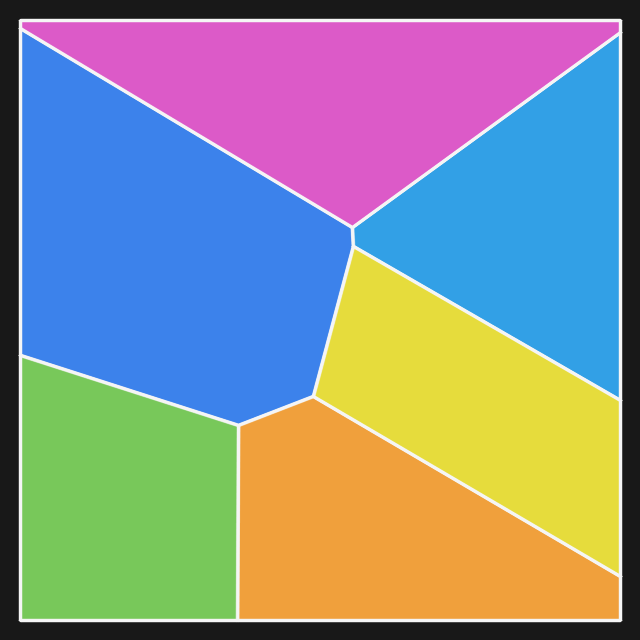
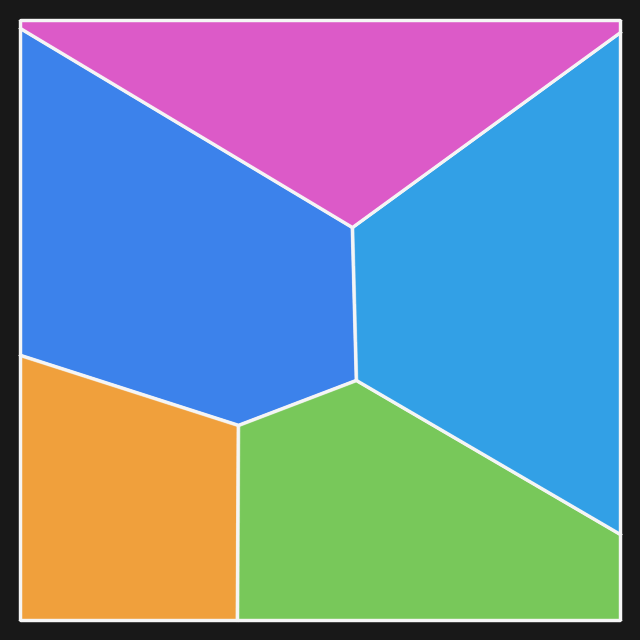
refactor(纹理拼合): 删掉未使用的 load_square，补上 --use-beam 对照开关
- load_square 定义了但从未调用（不规则拼装完全不读像素），删掉；\n- one() 早就有 use_beam 参数但 CLI 没有对应开关，补 --use-beam，\n  这样 README 里『直接用 beam_search 会拼错』的对照可以自己复跑。\n\n自检：py_compile 通过；--n 5 跑 002.jpg 仍是质心误差 0.0 / 空隙 0.0%。

diff --git a/纹理拼合/tools/irregular_cut.py b/纹理拼合/tools/irregular_cut.py
@@ -288,15 +288,6 @@ def draw_assembled(polys: list[np.ndarray], path: Path) -> None:
 # --------------------------------------------------------------------------
 # 5) 单张 / 批量
 # --------------------------------------------------------------------------
-def load_square(path: Path | None, size: int) -> np.ndarray:
-    if path is None:
-        return np.full((size, size, 3), 128, np.uint8)
-    im = cv2.imdecode(np.fromfile(str(path), dtype=np.uint8), cv2.IMREAD_COLOR)
-    if im is None:
-        return np.full((size, size, 3), 128, np.uint8)
-    return cv2.resize(im, (size, size), interpolation=cv2.INTER_AREA)
-
-
 def one(path: Path | None, n: int, size: int, time_budget: float, outdir: Path,
         seed: int, use_beam: bool = False) -> dict:
     rng = np.random.default_rng(seed)
@@ -350,6 +341,8 @@ def main() -> int:
     ap.add_argument("--seed", type=int, default=1)
     ap.add_argument("--bench", action="store_true", help="跑 照片/ 目录的批量基准")
     ap.add_argument("--limit", type=int, default=10)
+    ap.add_argument("--use-beam", action="store_true",
+                    help="对照组：改用项目原来的 beam_search.py（按凸包空隙排序，预期会拼错）")
     args = ap.parse_args()
 
     if args.bench:
@@ -359,7 +352,8 @@ def main() -> int:
         print("-" * 56)
         for i, f in enumerate(photos):
             out = Path(tempfile.gettempdir()) / f"irr_{f.stem}"
-            r = one(f, args.n, args.size, args.time, out, seed=i + 1)
+            r = one(f, args.n, args.size, args.time, out, seed=i + 1,
+                    use_beam=args.use_beam)
             if r.get("ok"):
                 ok += 1
                 print("%-10s %-6d %-8s %-10s ✓ %d 种拼法，空隙 %s%%"
@@ -376,7 +370,7 @@ def main() -> int:
 
     outdir = Path(args.out) if args.out else Path(tempfile.gettempdir()) / "irregular_demo"
     r = one(Path(args.image) if args.image else None, args.n, args.size,
-            args.time, outdir, args.seed)
+            args.time, outdir, args.seed, use_beam=args.use_beam)
     print(json.dumps(r, ensure_ascii=False, indent=2))
     print("输出目录：", outdir)
     return 0 if r.get("ok") else 1
